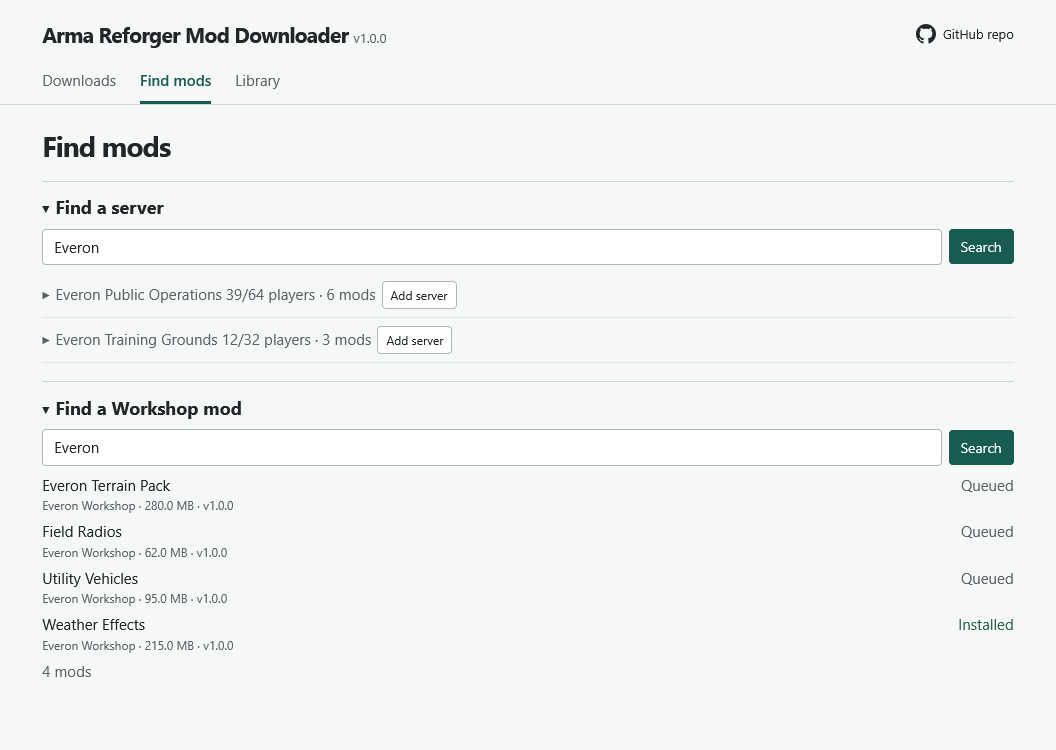
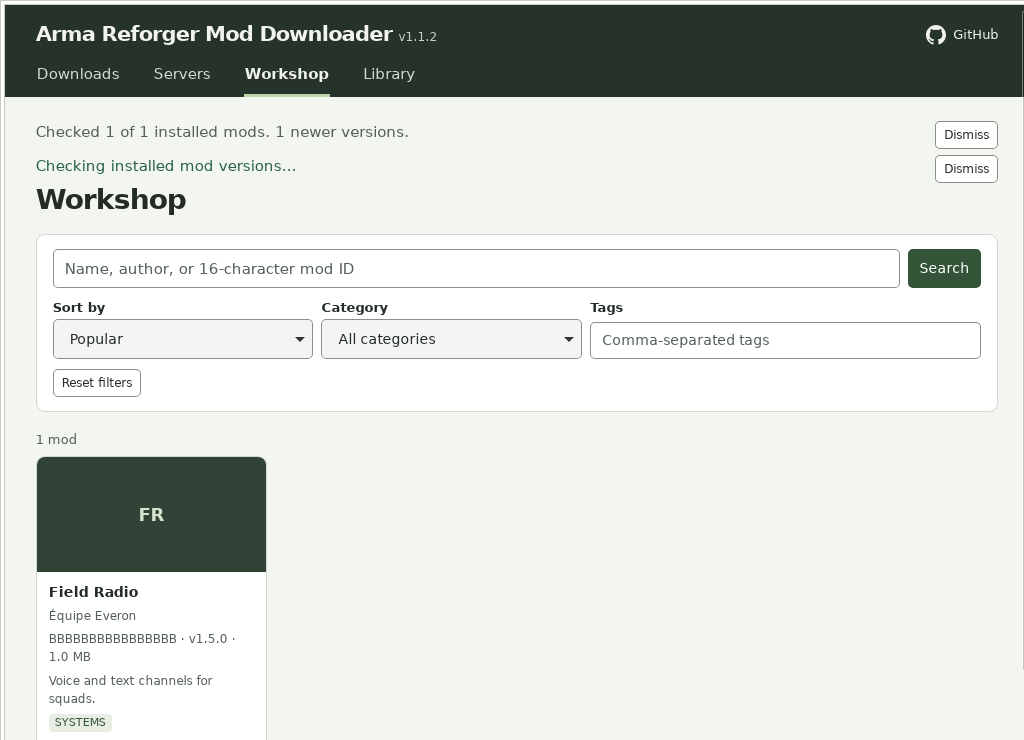
Refresh README screenshots

diff --git a/README.md b/README.md
@@ -34,6 +34,8 @@ On Linux, the desktop app finds the game's Steam Proton profile. Its default is 
 
 ![Download progress, speed, and queued Workshop mods](docs/screenshots/downloads.png)
 
-![Search for Arma Reforger servers and Workshop mods](docs/screenshots/discover.png)
+![Live server browser with region, platform, and mod filters](docs/screenshots/servers.png)
 
-![Library showing tracked servers and completed mods](docs/screenshots/library.png)
+![Workshop search with category and tag filters](docs/screenshots/discover.png)
+
+![Library showing updates and live details for a saved server](docs/screenshots/library.png)
